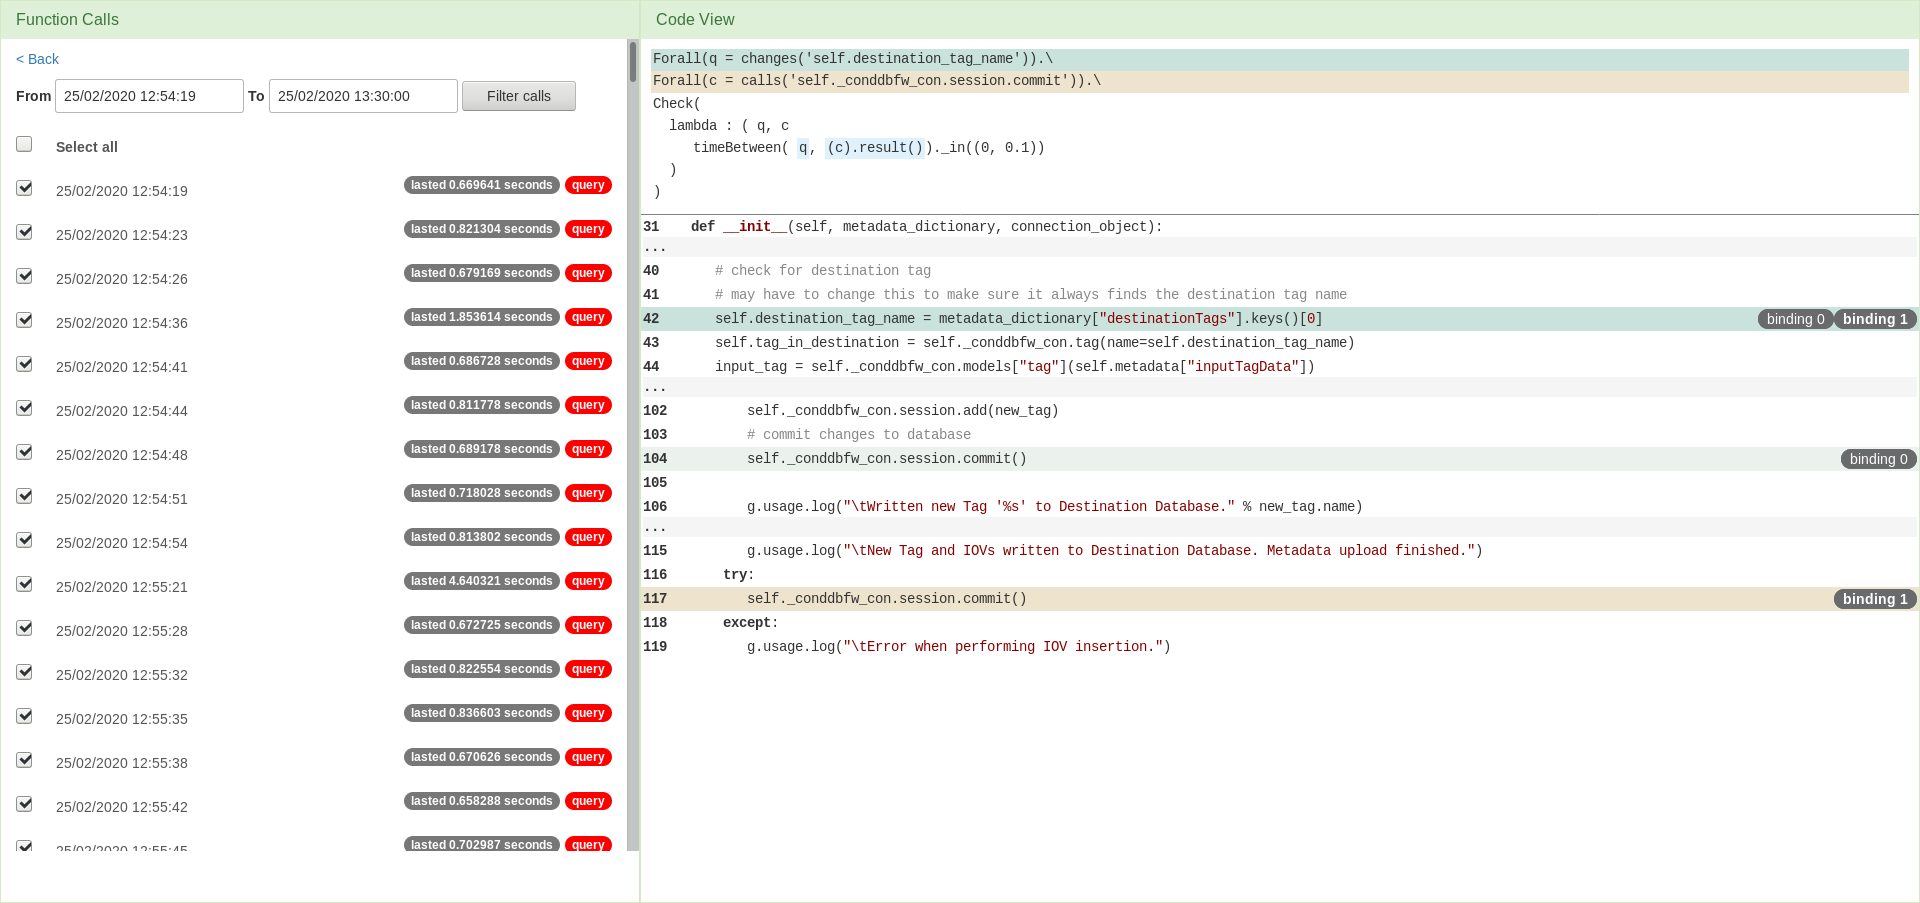
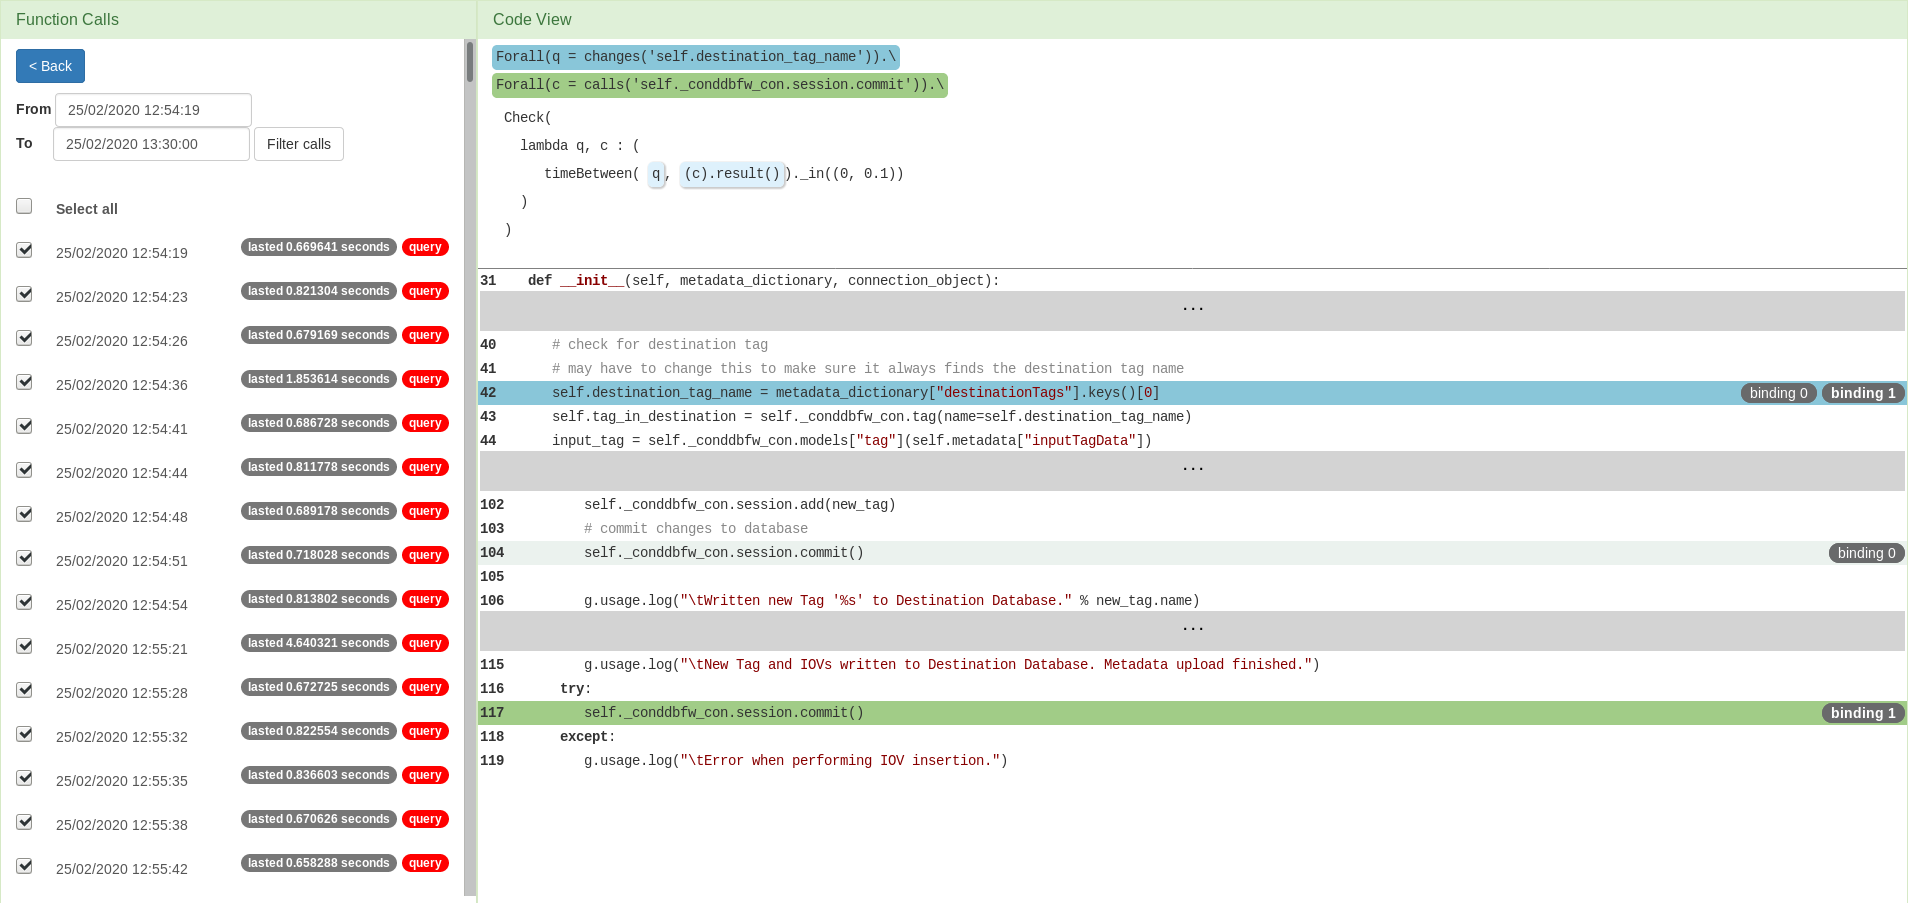
added some more screenshots because of style change, adding path highlighting

Changed region(s): [[0.0, 0.0, 1.0, 1.0], [0.1237, 0.155, 0.1855, 0.186]]

diff --git a/analysis-environment/other-examples.html b/analysis-environment/other-examples.html
@@ -94,11 +94,11 @@
 
     <div class="slideshow-container">
       <div class="mySlides fade">
-        <div class="numbertext">1 / 6</div>
+        <div class="numbertext">1 / 4</div>
         <img class="screenshot" src="../static/images/web_tool/other-f-binding-0.png">
       </div>
       <div class="mySlides fade">
-        <div class="numbertext">2 / 6</div>
+        <div class="numbertext">2 / 4</div>
         <img class="screenshot" src="../static/images/web_tool/other-f-binding-1.png">
       </div>
 
@@ -109,7 +109,7 @@
           needs to select the pair of points of interest. Choosing the first one is an option available in
           the dropdown menu.
         </p>
-        <div class="numbertext">3 / 6</div>
+        <div class="numbertext">3 / 4</div>
         <img class="screenshot" src="../static/images/web_tool/fix-first-point.png">
       </div>
 
@@ -117,31 +117,73 @@
         <p> Additionally, when we are creating plots we need to select a pair of points the time between
           which we want to observe. At runtime, the time when each one is reached is recorded, but we need
           to pair them and calculate the difference. This is all done in the background, while the user only
-          needs to select the pair of points of interest. Choosing the other one, along with the plotting
-          option is available as shown below.
+          needs to select the pair of points of interest. Choosing the first one is an option available
+          in the dropdown menu. Choosing the other one, along with the plotting option is available as
+          shown below.
         </p>
-        <div class="numbertext">4 / 6</div>
+        <div class="numbertext">4 / 4</div>
         <img class="screenshot" src="../static/images/web_tool/fix-other-point.png">
-      </div>
-
-      <div class="mySlides fade">
-        <p> Observed time taken by the program run between the selected two points.
-        </p>
-        <div class="numbertext">5 / 6</div>
-        <img class="screenshot" src="../static/images/web_tool/other-observation-plot.png">
-      </div>
-
-      <div class="mySlides fade">
-        <p> Verdict severity plot for the chosen pair.
-        </p>
-        <div class="numbertext">6 / 6</div>
-        <img class="screenshot" src="../static/images/web_tool/other-severity-plot.png">
       </div>
 
       <a class="prev" onclick="plusSlides(-1)">&#10094;</a>
       <a class="next" onclick="plusSlides(1)">&#10095;</a>
 
     </div>
+
+    <h2> Visualisation </h2>
+    <div class="slideshow-container">
+      <div class="mySlides fade">
+        <p> Observed time taken by the program run between the selected two points. </p>
+        <div class="numbertext">1 / 8</div>
+        <img class="screenshot" src="../static/images/web_tool/other-observation-plot.png">
+      </div>
+
+      <div class="mySlides fade">
+        <p> Verdict severity plot for the chosen pair. </p>
+        <div class="numbertext">2 / 8</div>
+        <img class="screenshot" src="../static/images/web_tool/other-severity-plot.png">
+      </div>
+
+      <div class="mySlides fade">
+        <p> Paths highlighted by severity. </p>
+        <div class="numbertext">3 / 8</div>
+        <img class="screenshot" src="../static/images/web_tool/paths-highlighted.png">
+      </div>
+
+      <div class="mySlides fade">
+        <p> Select a plotting option that creates plot with regards to path. </p>
+        <div class="numbertext">4 / 8</div>
+        <img class="screenshot" src="../static/images/web_tool/path-plot-options.png">
+      </div>
+
+      <div class="mySlides fade">
+        <p> Select a plotting option that creates plot with regards to path. </p>
+        <div class="numbertext">5 / 8</div>
+        <img class="screenshot" src="../static/images/web_tool/observation-path-0.png">
+      </div>
+
+      <div class="mySlides fade">
+        <p> Select a plotting option that creates plot with regards to path. </p>
+        <div class="numbertext">6 / 8</div>
+        <img class="screenshot" src="../static/images/web_tool/observation-path-1.png">
+      </div>
+
+      <div class="mySlides fade">
+        <p> Select a plotting option that creates plot with regards to path. </p>
+        <div class="numbertext">7 / 8</div>
+        <img class="screenshot" src="../static/images/web_tool/severity-path-0.png">
+      </div>
+
+      <div class="mySlides fade">
+        <p> Select a plotting option that creates plot with regards to path. </p>
+        <div class="numbertext">8 / 8</div>
+        <img class="screenshot" src="../static/images/web_tool/severity-path-1.png">
+      </div>
+
+      <a class="prev" onclick="plusSlides(-1, 1)">&#10094;</a>
+      <a class="next" onclick="plusSlides(1, 1)">&#10095;</a>
+    </div>
+
     </div>
 
     </div>

diff --git a/static/js/analysis.js b/static/js/analysis.js
@@ -1,21 +1,33 @@
-var slideIndex = 1;
-showSlides(slideIndex);
+var slideIndex = [];
+showSlides(1);
 
-function plusSlides(n) {
-  showSlides(slideIndex += n);
+function plusSlides(n, slideshowIndex = 0) {
+  slideIndex[slideshowIndex] += n
+  showSlides(slideIndex[slideshowIndex], slideshowIndex);
 }
 
-function currentSlide(n) {
-  showSlides(slideIndex = n);
-}
 
-function showSlides(n) {
-  var i;
-  var slides = document.getElementsByClassName("mySlides");
-  if (n > slides.length) {slideIndex = 1}
-  if (n < 1) {slideIndex = slides.length}
-  for (i = 0; i < slides.length; i++) {
-      slides[i].style.display = "none";
+function showSlides(n, slideshowIndex = null) {
+  var i, j;
+  var slideshows = $(".slideshow-container");
+
+  if (slideshowIndex != null) {
+    var slides = $(slideshows[slideshowIndex]).find(".mySlides");
+    if (n > slides.length) {slideIndex[slideshowIndex] = 1}
+    if (n < 1) {slideIndex[slideshowIndex] = slides.length}
+    for (j = 0; j < slides.length; j++) {
+        $(slides[j]).attr('style', 'display: none');
+    }
+    $(slides[slideIndex[slideshowIndex]-1]).attr('style', 'display: block');
+  } else {
+    for (i = 0; i < slideshows.length; i++) {
+      slideIndex.push(n);
+      var slides = $(slideshows[i]).find(".mySlides");
+      for (j = 0; j < slides.length; j++) {
+          $(slides[j]).attr('style', 'display: none');
+      }
+      $(slides[0]).attr('style', 'display: block');
+    }
   }
-  slides[slideIndex-1].style.display = "block";
+
 }

diff --git a/analysis-environment/select-visualisation.html b/analysis-environment/select-visualisation.html
@@ -132,6 +132,15 @@
 
     </div>
 
+    <h2> Path Highlighting</h2>
+    <p> Having detected the performance successes and issues, we want to also find the potential sources
+      of inefficiency. Filtering the results by the path taken through the code will reveal whether
+      verdicts taken by runs that took a particular path are significantly worse than others. Selecting
+      the option to highlight the paths by verdict severity will expand the code to show all the lines
+      and colour the path differences depening on the average verdict severity observed along each path.
+    </p>
+
+    <p> Option is currently not available for this type of atom. See a working example <a href="other-examples.html">here</a>. </p>
 
     </div>
 
